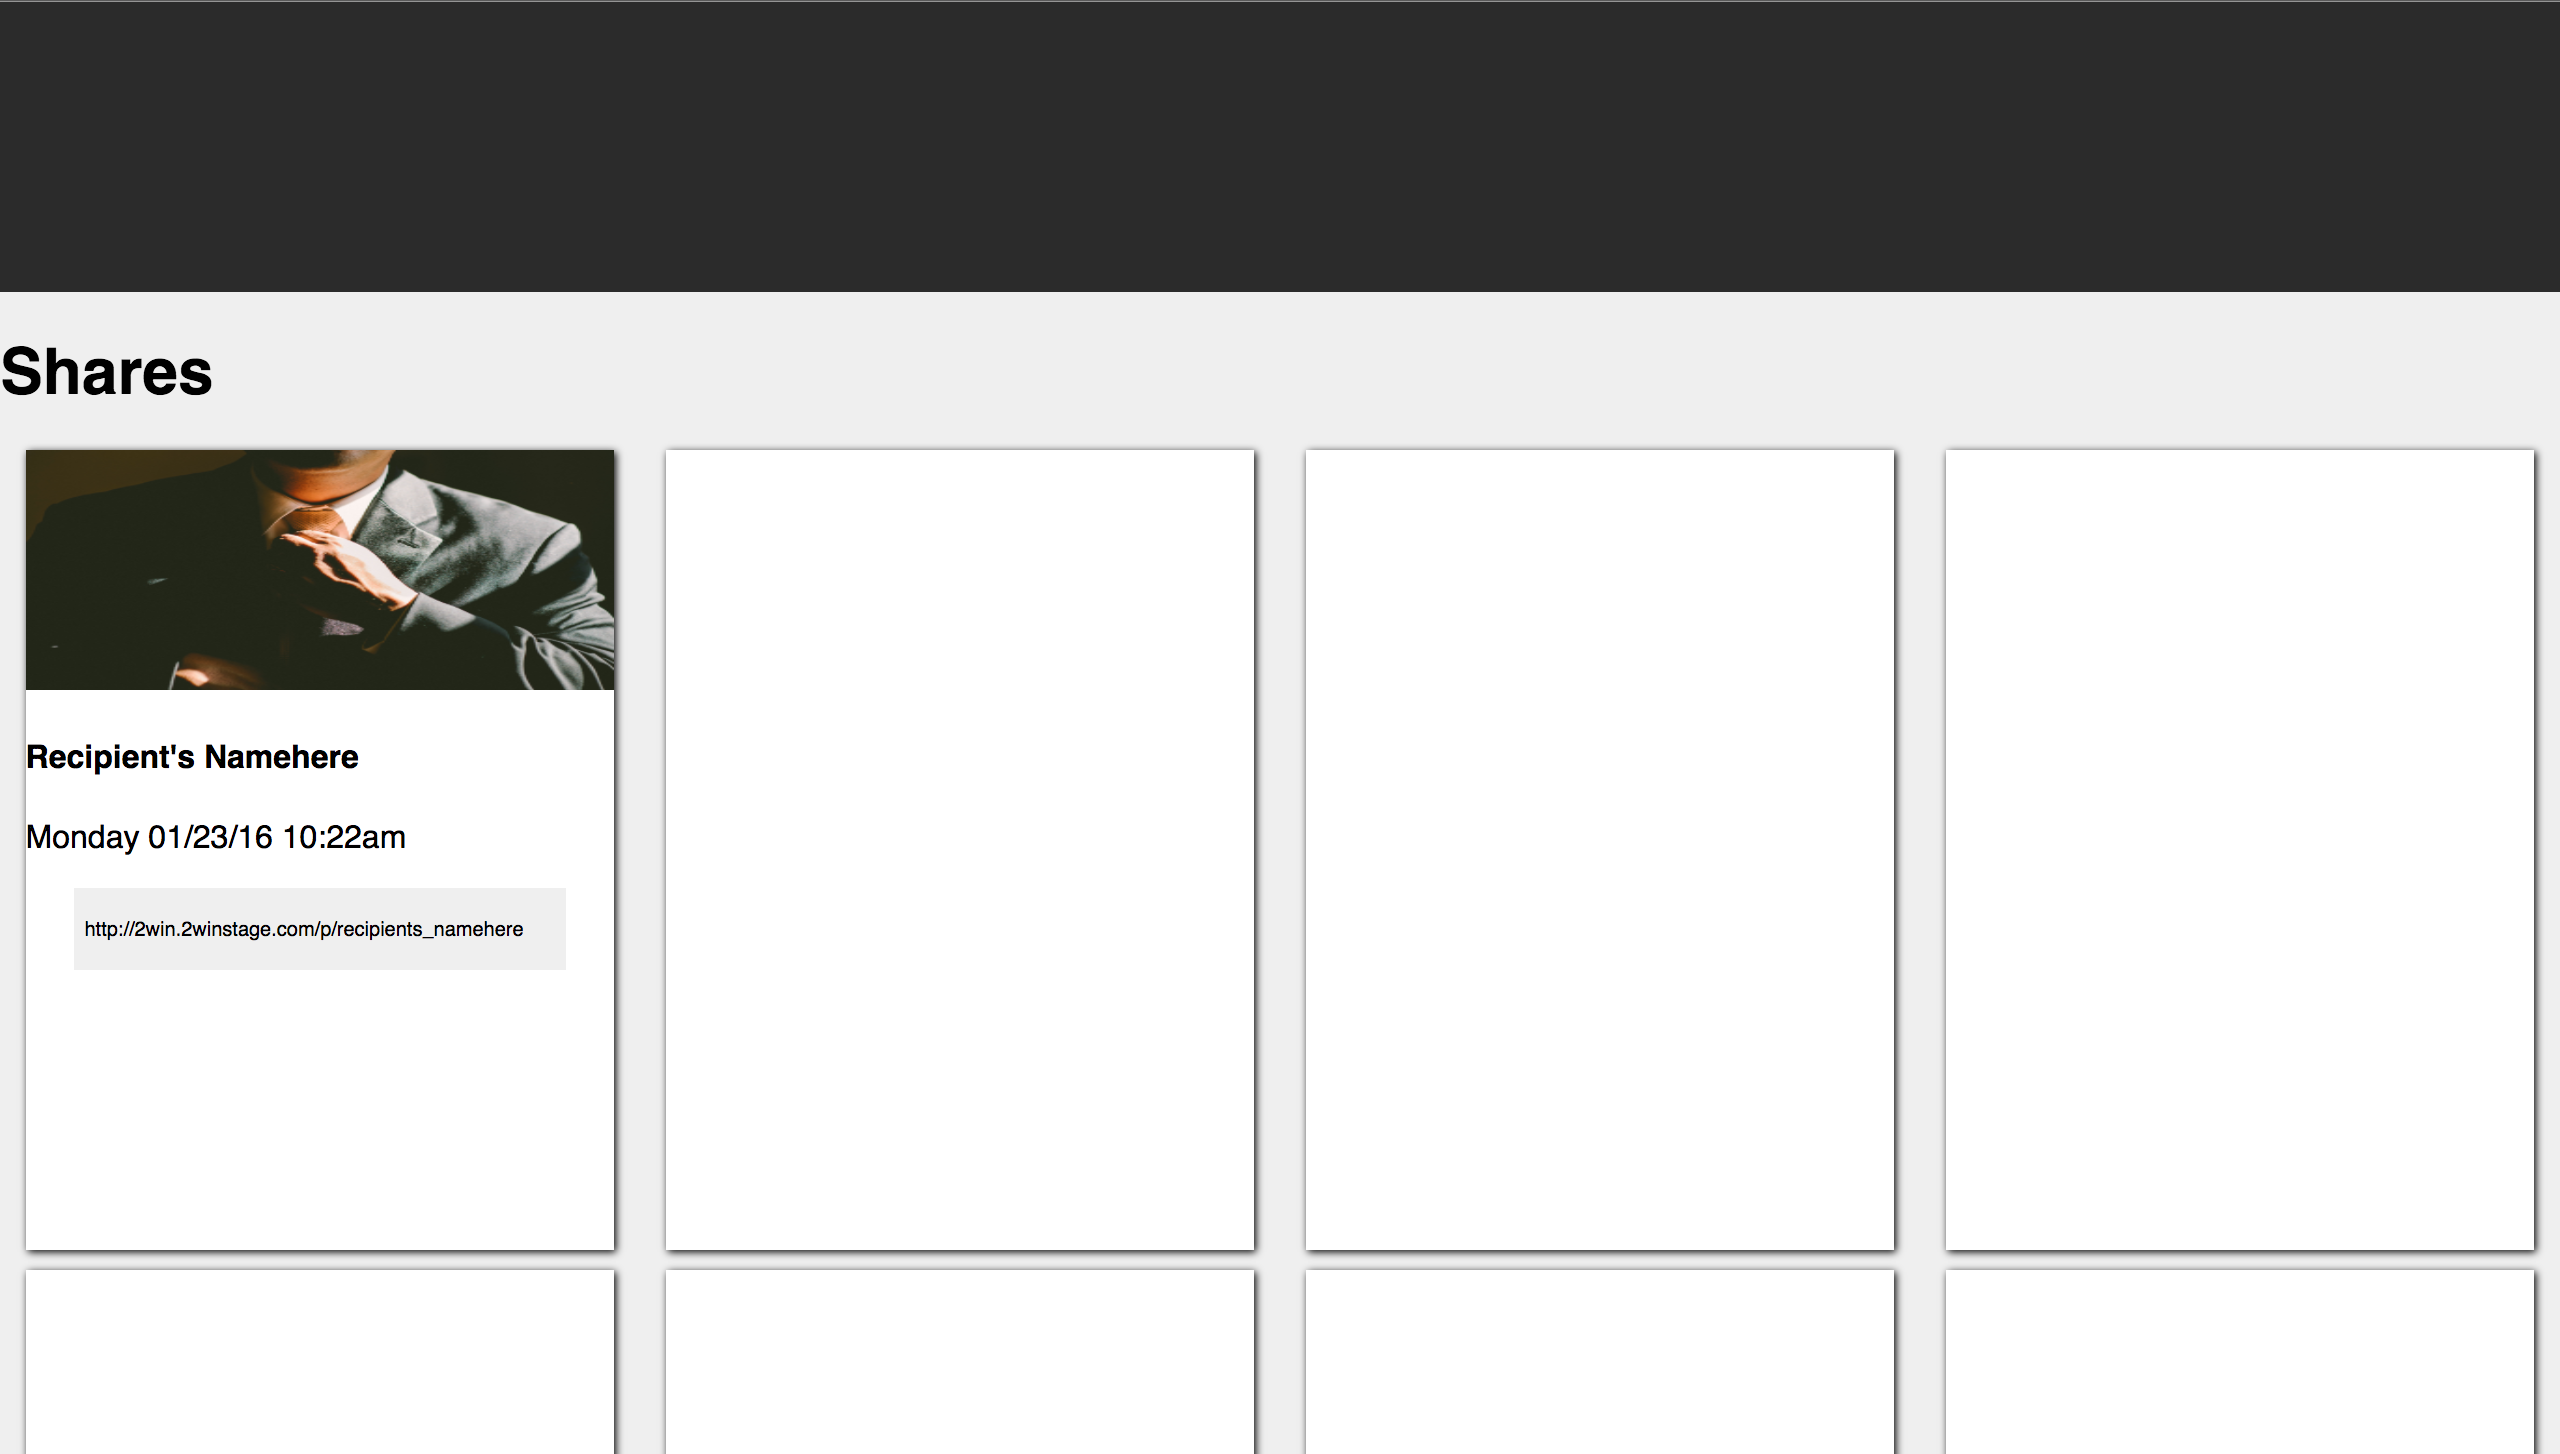
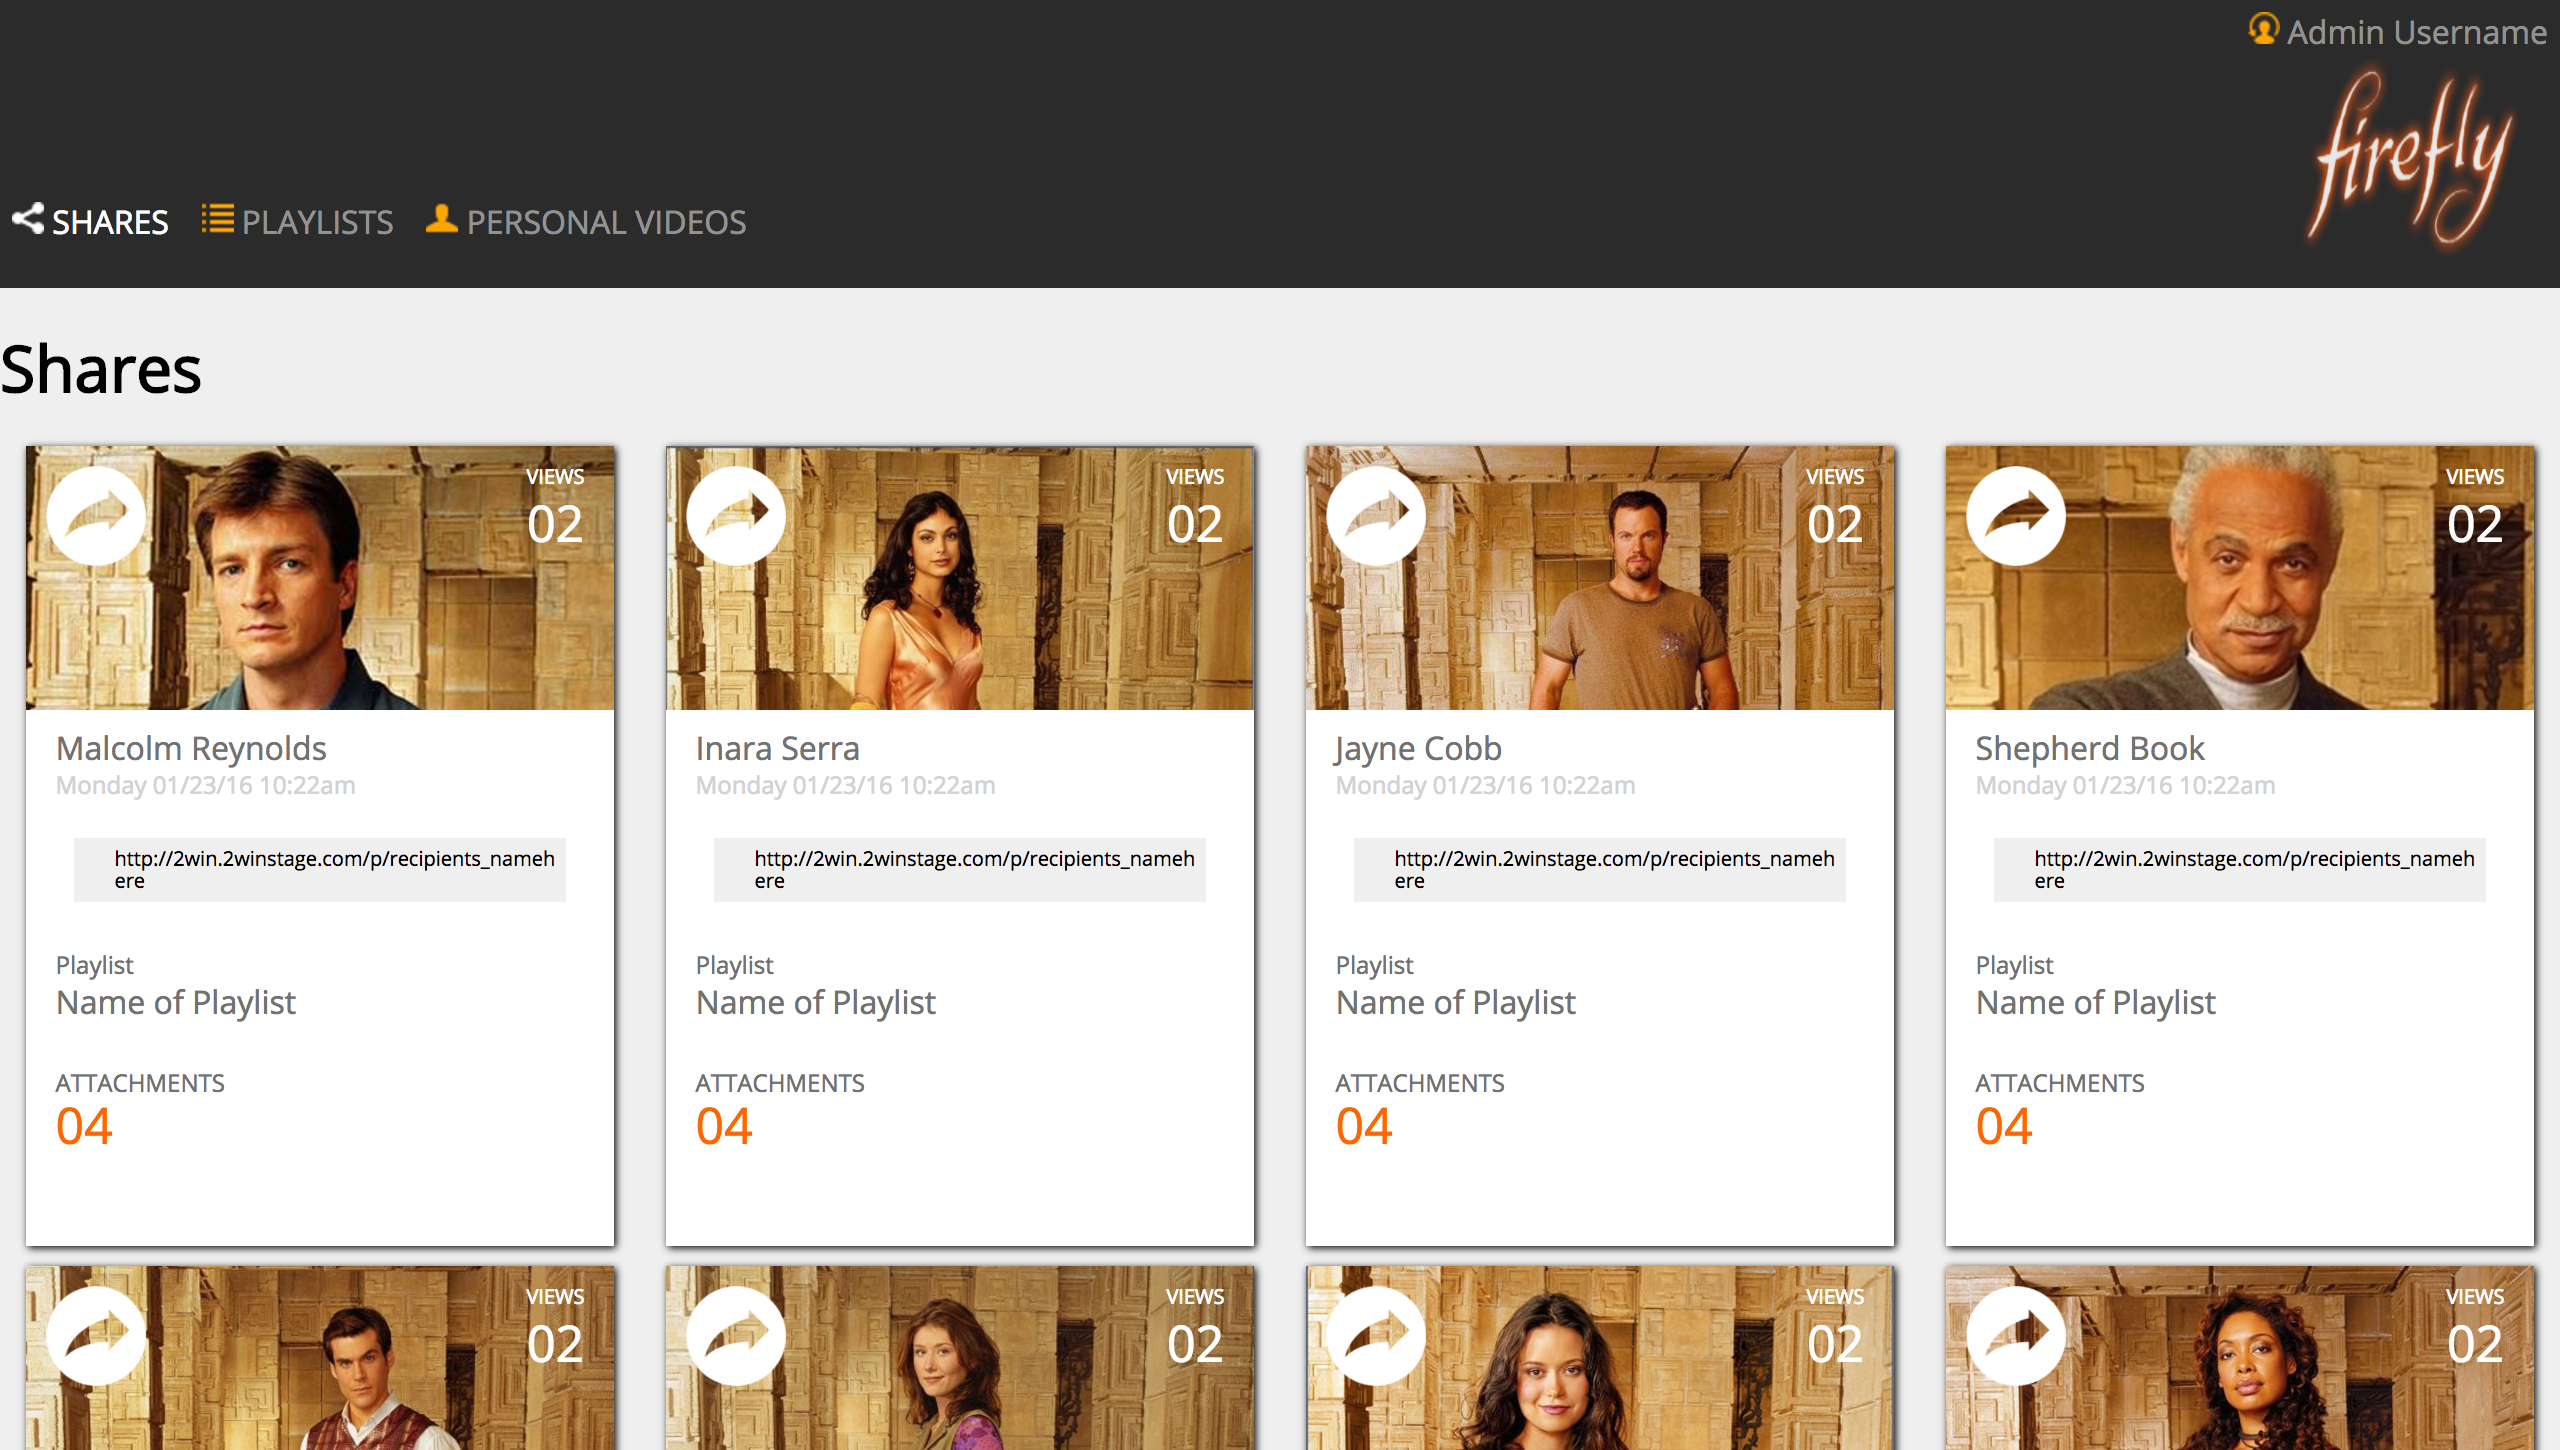
Add README.md

diff --git a/README.md b/README.md
@@ -1,2 +1,7 @@
+#sh-comp-challenge-2
+
+Our project was to match the Static Comp. I took advantage of FlexBox and numerous different divs and sections to align items properly.
+
+
 <img src="static-comp-challenge-2.jpg">
 <img src="images/screenshot.jpg">
